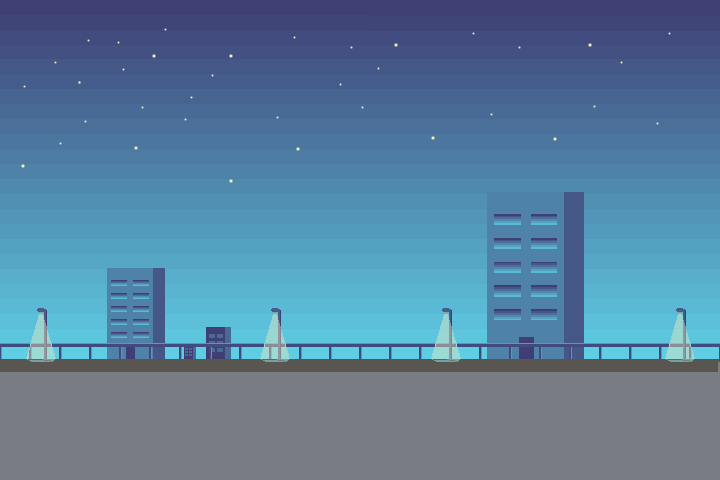
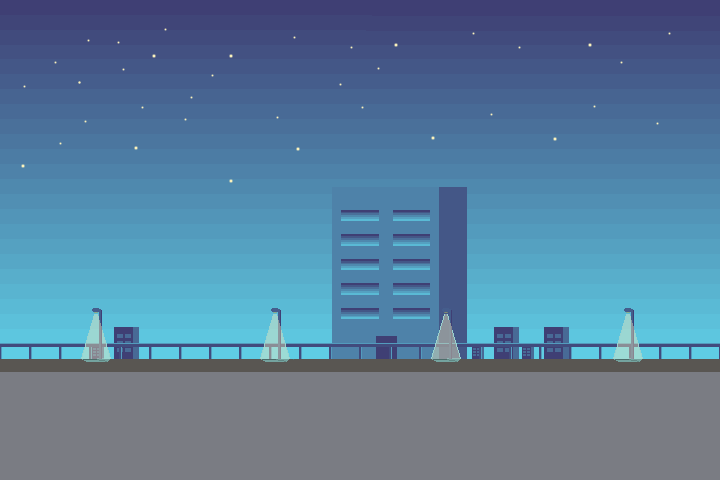
게임 슬라이드 구현

Changed region(s): [[0.4583, 0.375, 0.825, 0.75], [0.0306, 0.5312, 0.3361, 0.7812], [0.8556, 0.625, 0.9778, 0.7812]]

diff --git a/game.css b/game.css
@@ -1,7 +1,65 @@
-*{margin: 0; padding: 0; overflow: hidden;}
+* {
+    margin: 0;
+    padding: 0;
+}
 
-#background {
+body {
+    overflow: hidden; /* 좌우 스크롤 막기 */
+}
+
+#image {
     position: relative;
-    width: 100vw;
-    height: 100vh;
+    width: 500vw; /* 이미지 컨테이너 너비 설정 */
+    height: 100vh; /* 이미지 컨테이너 높이 설정 */
+    overflow: hidden; /* 넘치는 이미지를 숨김 */
+    animation: moveBackground 25s linear infinite;
+}
+
+.background {
+    position: absolute;
+    top: 0;
+    width: 100vw; /* 이미지 요소 너비 설정 */
+    height: 100vh; /* 이미지 요소 높이 설정 */
+    background-repeat: no-repeat;
+    background-size: cover;
+}
+
+.background:nth-child(1) {
+    background-image: url('game_img/game_background1.png'); /* 첫 번째 이미지 */
+    left: 0; /* 첫 번째 이미지는 왼쪽에 위치 */
+    z-index: 5; /* 첫 번째 이미지는 가장 앞에 표시 */
+}
+
+.background:nth-child(2) {
+    background-image: url('game_img/game_background2.png'); /* 두 번째 이미지 */
+    left: 100vw; /* 두 번째 이미지는 왼쪽에서 1번째로 이동 */
+    z-index: 4; /* 두 번째 이미지는 두 번째로 앞에 표시 */
+}
+
+.background:nth-child(3) {
+    background-image: url('game_img/game_background3.png'); /* 세 번째 이미지 */
+    left: 200vw; /* 세 번째 이미지는 왼쪽에서 2번째로 이동 */
+    z-index: 3; /* 세 번째 이미지는 세 번째로 앞에 표시 */
+}
+
+.background:nth-child(4) {
+    background-image: url('game_img/game_background4.png'); /* 네 번째 이미지 */
+    left: 300vw; /* 네 번째 이미지는 왼쪽에서 3번째로 이동 */
+    z-index: 2; /* 네 번째 이미지는 가장 뒤에 표시 */
+}
+
+.background:nth-child(5) {
+    background-image: url('game_img/game_background1.png'); /* 네 번째 이미지 */
+    left: 400vw; /* 네 번째 이미지는 왼쪽에서 3번째로 이동 */
+    z-index: 1; /* 네 번째 이미지는 가장 뒤에 표시 */
+}
+
+
+@keyframes moveBackground {
+    0% {
+        transform: translateX(0); /* 초기 위치 */
+    }
+    100% {
+        transform: translateX(-400vw); /* 이동할 거리 (-100vw * 이미지 개수) */
+    }
 }

diff --git a/game.html b/game.html
@@ -1,15 +1,17 @@
 <!DOCTYPE html>
 <html>
-    <head>
-        <link rel="stylesheet" href="game.css">
-        <script src="https://code.jquery.com/jquery-3.6.0.min.js"></script>
-        <script type="text/javascript" src="game.js"></script>
-
-    </head>
-
-    <body>
-        <div id="image">
-            <img id="background" src="game_img/game_background1.png">
-        </div>
-    </body>
+<head>
+    <link rel="stylesheet" href="game.css">
+    <script src="https://code.jquery.com/jquery-3.6.0.min.js"></script>
+    <script type="text/javascript" src="game.js"></script>
+</head>
+<body>
+    <div id="image">
+        <img class="background" src="game_img/game_background1.png">
+        <img class="background" src="game_img/game_background2.png">
+        <img class="background" src="game_img/game_background3.png">
+        <img class="background" src="game_img/game_background4.png">
+        <img class="background" src="game_img/game_background1.png">
+    </div>        
+</body>
 </html>

diff --git a/README.md b/README.md
@@ -1,3 +1,1 @@
-# RhythmE hi
-병신
-최혁 병신
+# RhythmE 
